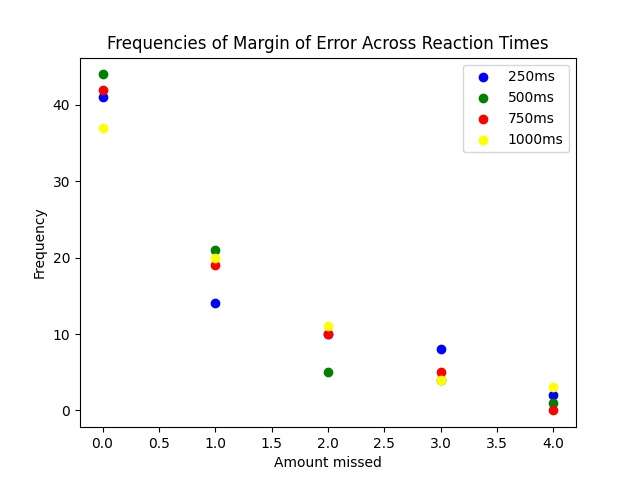
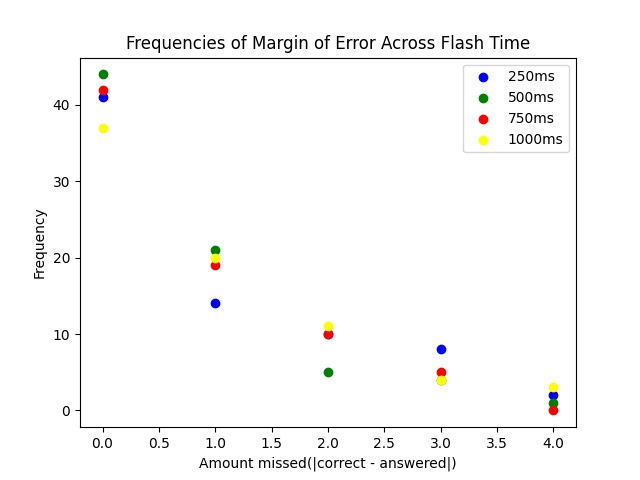
paper changes

Changed region(s): [[0.1562, 0.0625, 0.8438, 0.125], [0.3125, 0.9375, 0.7188, 1.0]]

diff --git a/paper/paper.tex b/paper/paper.tex
@@ -1,7 +1,7 @@
 \documentclass[12pt]{article}
 
 \usepackage{amsmath}
-\usepackage[margin=1in]{geometry}
+%\usepackage[margin=1in]{geometry}
 \usepackage{hyperref}
 \usepackage{graphicx}
 \graphicspath{{./images/}}
@@ -14,7 +14,8 @@
     #3 %assignment
 }
 
-\title{An Analysis of Visual Subitization Across Different Modes of Peripheral Vision}
+\title{An Analysis of Visual Subitization Across Different Modes of Peripheral
+Vision}
 
 \author{Juni Kim \\
 Stanford Online High School}
@@ -29,19 +30,25 @@ Subitization is the almost instantaneous ability of humans to visually deduce
 the quantity of a certain object (or category) given that the number is small
 enough. For numbers beyond four, humans will instinctually use a system of
 counting and approximation that is less accurate and more time-consuming. When
-one uses this process of subitizing, they are able to count objects with
-minimal effort, as if it were an alternate form of perception. The study that
-I conducted thus tries to test the effect that visual perception has on the
-ability of one to subitize correctly.
+one uses this process of subitizing, they are able to recognize the numerosity
+of objects without counting, as if it were an alternate form of perception.  In
+this study, I examined the human’s fundamental skills in “number sense” by
+testing the effect of visual perception on one’s ability to precisely subitize
+a small group of objects. 
 
 Peripheral vision is the ability of humans to see objects that are not exactly
-on the focus of the eye and are thus allocated less cognitive resources to
-process. Testing the effect of peripheral vision on one's ability to subitize
-would further unveil whether or not visual perception has a significant effect
-on this ability.
+on the focus of the eye. Although central vision within the focus requires most
+of our mental resources, such as memory and attention, and allows us to see
+things with sharp detail, peripheral vision enables us to view objects around
+the entire visual field. Peripheral vision is also a vital component of
+detecting motion and supports functions of the central vision. Vision
+scientists have shown that peripheral vision has relatively poor resolution and
+acuity. Testing the effect of peripheral vision on one’s
+ability to subitize will thus unveil whether or not visual perception has a
+significant effect on subitization.
 
-Within my final project for OMSB9, I collected and analyzed data concerning the
-ability of people to accurately count the number of objects in a drawing along
+Within my final project for OMSB9, I collected and analyzed data to evaluate the
+ability of people to accurately subitize the number of objects in a drawing along
 different angles of peripheral vision and the time in which an image was
 flashed. I intend to find the accuracy of subitizing across different modes of
 peripheral vision and as to the effect that reaction time has on accuracy.
@@ -67,13 +74,13 @@ tests. The source code can be found in
 The testing page is located in the /testing.php file.
 
 Within the testing page, one may modify the GET parameters (which include the
-participant name, angle being tested, and the time being tested) to conduct
-different tests. When one clicks the ``conduct test" button, a randomly selected
-picture (consisting of a certain number of clearly visible dots) will appear
-for a duration of time equal to the one that was put in the GET parameters. The
-participant was asked how many dots they believe (to their best guesses) were
-in the picture that was flashed, and this is recorded. Once this test is
-complete, the ``submit" button is clicked.
+participant name, angle being tested, and the time being tested) to
+conduct different tests. When one clicks the ``conduct test" button, a randomly
+selected picture (consisting of a certain number of clearly visible dots) will
+appear for a duration of time equal to the one that was put in the GET
+parameters. The participant was asked how many dots they believed (to their
+best guesses) were in the picture that was flashed, and their response
+was recorded. Once the test was complete, the ``submit" button was clicked.
 
 \subsubsection{Handler Page}
 The handler is located in the /handler.php file.
@@ -83,16 +90,16 @@ request (so that a particularly adept participant cannot simply scan the GET
 parameters and evaluate their previous answers) and appends this data
 into a file called data.txt (note that the file never gets overwritten).
 
-The handler page also contains a pre-filled HTML form which you may
-modify if you would like to change the settings for the next test.
+The handler page also contains a pre-filled HTML form which I could
+modify if I wanted to change the settings for the next test.
 
 \subsection{Physical Setup}
 A sheet of 11x17 paper was used to make demarcations of 0, 30, and 60 degree
 deviations in order to consistently align the monitor correctly. At the 0
 degree line, an object would be placed (preferably one that is relatively thin)
 for the participant to focus their fovea on while the test is taking place.
-The computer is then placed on one of the lines (for testing a particular
-angle), and the test can be run.
+The computer was then placed on one of the lines (for testing a particular
+angle), and the test was initiated.
 
 
 \begin{figure}
@@ -115,7 +122,7 @@ The data points seen below were all generated with matplotlib.
 \begin{figure} [h]
 \centering
 \includegraphics[scale=0.5]{reaction.jpg}
-\caption{Accuracy across different times}
+\caption{Accuracy across different flash times}
 \end{figure}
 
 \begin{figure} [h]
@@ -127,20 +134,22 @@ The data points seen below were all generated with matplotlib.
 \newpage
 \section{Analysis}
 
-Based on this raw data, I have been able to make some analyses and thus some
-answers to my original questions going into the study.
+Based on the raw data, I have been able to perform some analyses to address my
+research question on the effects of the visual angle and stimulus duration on
+participants’ subitizing performance. 
 
 \subsection{Deviations from answer}
 
-For assessing the standard deviations of responses per answer, a linear
-regression was plausible because there was minimal likelihood that the standard
-deviation of responses would have a non-consistent distribution per response.
+For assessing the standard deviations of participants' responses per answer
+(the actual number of dots displayed), a linear regression was plausible
+because there was minimal likelihood that the standard deviation of responses
+would have a non-consistent distribution per response.
 
 A PMCC test with the correct answer and the standard deviation of responses
 exhibits a p-value of $2.1 \cdot 10^{-5}$ seems to indicate that there exists a
 statistically highly significant positive correlation.
 
-\subsection{Reaction Time and Error}
+\subsection{Accuracy Based on Time Flashed (Figure 3)}
 
 For assessing this correlation, I used a spearman rank correlation coefficient
 (a non-parametric test) in order to assess if there was a significant monotonic
@@ -151,15 +160,25 @@ with the data collected, there is no statistically significant
 monotonic correlation between the time given for the participant to look at the
 image and their precision.
 
-\subsection{Accuracy based on Angle Viewed}
+This result indicates that there was no speed-accuracy trade-off. In other
+words, the participants in this test did not have to slow down their responses
+to be accurate.
+
+\subsection{Accuracy based on Angle Viewed (Figure 4)}
 
 In order to assess whether or not participants were significantly more or less
 accurate on at least one of the three angles at which they were tested, I
-conducted a one-way ANOVA test (as the data is both parametric and has multiple samples).
+conducted a one-way ANOVA test (as the data is both parametric and has multiple
+samples).
 
 The results show that $F=47.5$ and $p = 1.23 \cdot 10^{-18}$, which indicates
-that there is a statistically highly significant difference between the results across
-different angles.
+that there is a statistically highly significant difference between the results
+across different angles.
+
+As an additional note, because the errors for 0 degree (with a peak at around
+$0.0$ in Figure 4) was smaller than those for the 30 and 60 degrees,
+this result suggests that the participants’ subitization performance
+impaired with greater visual angle of the presentation.
 
 \subsection{Near Peripheral Vision vs Far Peripheral Vision?}
 
@@ -171,19 +190,26 @@ there is not a statistically significant difference between precision when
 participants viewed the pictures from $30^{\circ}$ versus $60^{\circ}$.
 
 \section{Conclusions}
-Based on the statistically analyzed data, we have been able to prove that the
-mean precision is different among tests from different angles of peripheral
-vision, but we have been unable to prove such a difference exists between near
-and far peripheral vision. As a benchmark, we have also shown a statistically
+Based on the statistically analyzed data, I have been able to prove that the
+mean precision is different among tests from different angles of vision (3.3).
+However, I have been unable to prove such a difference exists between near and
+far peripheral vision (3.4). As a benchmark, we have also shown a statistically
 significant linear correlation between the amount of error within the
 participants' tests and the number that was displayed in front of them, which
 indicates (as others have previously shown), that the ability of subitization
-decreases with time.
+decreases as one sees more objects that they must count.
 
 As I had constraints of time and accuracy as a result of being within the
 COVID-19 pandemic, I was unable to get a larger set of peripheral vision angles
 to check, which might have allowed me to do a correlation analysis and thus
 gain better insights. Other studies might also be able to obtain more
 volunteers than I have been able to.
+
+There were also constraints from the programs that I used to run the tests. As
+I used browser javascript to flash the images, there were rendering issues
+within the browser once I set the flash time to below 150ms. It is possible
+that using a faster GUI program written in a faster environment would have
+allowed me to more closely examine the correlations between flash time and
+subitization ability.
 
 \end{document}

diff --git a/analysis/analyze.py b/analysis/analyze.py
@@ -22,7 +22,7 @@ def test_1(plot=False) -> None:
         plt.plot(x, y_p, color='green')
         plt.title("Deviations from Answer based on number displayed")
         plt.xlabel('Number Displayed on Screen')
-        plt.ylabel('Standard Deviation From Answer')
+        plt.ylabel('Standard Deviation Of Responses')
         #plt.scatter(x, y)
         plt.scatter(range(1, 10), means, color='red')
         plt.savefig('../paper/images/regression.jpg')
@@ -43,7 +43,7 @@ def test_2(plot=False) -> None:
                     res += 1
             return res
 
-        plt.title("Frequencies of Margin of Error Across Reaction Times")
+        plt.title("Frequencies of Margin of Error Across Flash Time")
         data = [[abs(x.response - x.correct) for x in p.results if x.time == i]
                 for i in [250, 500, 750, 1000]]
 
@@ -54,7 +54,7 @@ def test_2(plot=False) -> None:
             f = [freq(lt, j) for j in range(5)]
             plt.scatter(range(5), f, color=colors[i], label=f'{time}ms')
 
-        plt.xlabel("Amount missed")
+        plt.xlabel("Amount missed(|correct - answered|)")
         plt.ylabel("Frequency")
         plt.legend(loc='upper right')
         plt.savefig('../paper/images/reaction.jpg')
@@ -101,7 +101,7 @@ def test_5(plot=False) -> None:
             f = [freq(lt, j) for j in range(5)]
             plt.scatter(range(5), f, color=colors[i], label=f'{angle} degrees')
 
-        plt.xlabel("Amount missed")
+        plt.xlabel("Amount Missed (|correct - answered|)")
         plt.ylabel("Frequency")
         plt.legend(loc='upper right')
         plt.savefig('../paper/images/angle.jpg')
